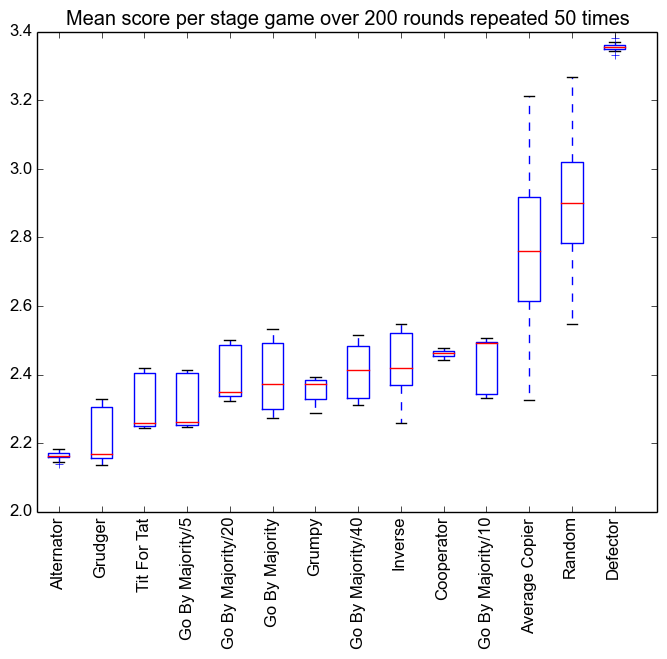
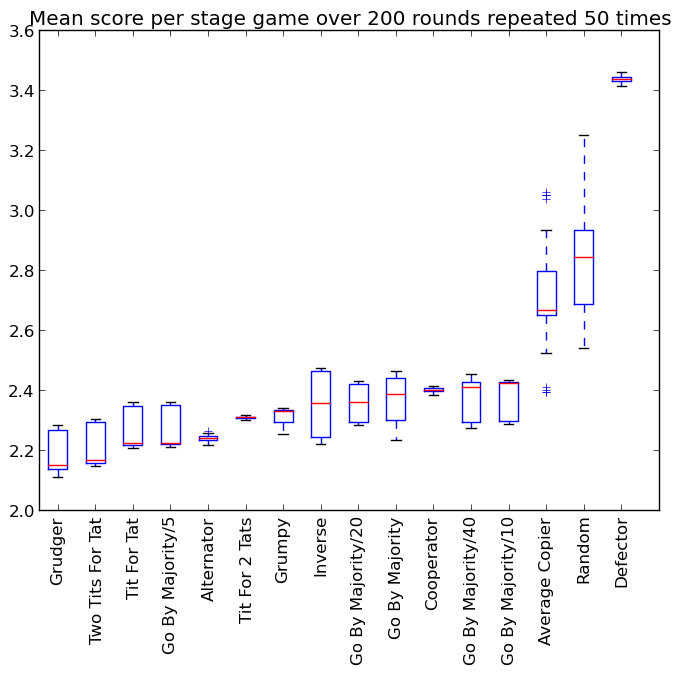
Add TwoTitsForTat and TitFor2Tats and updated results

Changed region(s): [[0.0, 0.0, 0.9895, 1.0], [0.3298, 0.1821, 0.8996, 0.6677], [0.7796, 0.2731, 0.8096, 0.3035]]

diff --git a/axelrod/tests/test_titfortat.py b/axelrod/tests/test_titfortat.py
@@ -30,3 +30,60 @@ class TestTitForTat(unittest.TestCase):
     def test_representation(self):
         P1 = axelrod.TitForTat()
         self.assertEqual(str(P1), 'Tit For Tat')
+
+class TestTitFor2Tats(unittest.TestCase):
+
+    def test_initial_strategy(self):
+        """
+        Starts by cooperating
+        """
+        P1 = axelrod.TitFor2Tats()
+        P2 = axelrod.Player()
+        self.assertEqual(P1.strategy(P2), 'C')
+
+    def test_effect_of_strategy(self):
+        """
+        Will defect only when last two turns of opponent were defections.
+        """
+        P1 = axelrod.TitFor2Tats()
+        P2 = axelrod.Player()
+        P1.history = ['C', 'C', 'C']
+        P2.history = ['C', 'D', 'D']
+        self.assertEqual(P1.strategy(P2), 'D')
+        P1.history = ['C', 'C', 'D', 'D']
+        P2.history = ['D', 'D', 'D', 'C']
+        self.assertEqual(P1.strategy(P2), 'C')
+
+    def test_representation(self):
+        P1 = axelrod.TitFor2Tats()
+        self.assertEqual(str(P1), 'Tit For 2 Tats')
+
+class TestTwoTitsForTat(unittest.TestCase):
+
+    def test_initial_strategy(self):
+        """
+        Starts by cooperating
+        """
+        P1 = axelrod.TwoTitsForTat()
+        P2 = axelrod.Player()
+        self.assertEqual(P1.strategy(P2), 'C')
+
+    def test_effect_of_strategy(self):
+        """
+        Will defect only when last two turns of opponent were defections.
+        """
+        P1 = axelrod.TwoTitsForTat()
+        P2 = axelrod.Player()
+        P1.history = ['C', 'C']
+        P2.history = ['D', 'D']
+        self.assertEqual(P1.strategy(P2), 'D')
+        P1.history = ['C', 'C', 'D']
+        P2.history = ['D', 'D', 'C']
+        self.assertEqual(P1.strategy(P2), 'D')
+        P1.history = ['C', 'C', 'D', 'D']
+        P2.history = ['D', 'D', 'C', 'C']
+        self.assertEqual(P1.strategy(P2), 'C')
+
+    def test_representation(self):
+        P1 = axelrod.TwoTitsForTat()
+        self.assertEqual(str(P1), 'Two Tits For Tat')

diff --git a/axelrod/strategies/titfortat.py b/axelrod/strategies/titfortat.py
@@ -19,3 +19,37 @@ class TitForTat(Player):
         The string method for the strategy.
         """
         return 'Tit For Tat'
+
+class TitFor2Tats(Player):
+    """
+    A player starts by cooperating and then defects only after two defects by opponent.
+    """
+    def strategy(self, opponent):
+        """
+        Being by playing 'C':
+        Will defect whenever anopponent has defected twice
+        """
+        if opponent.history[-2:] == ['D', 'D']:
+            return 'D'
+        return 'C'
+
+    def __repr__(self):
+        """The string method for the strategy."""
+        return "Tit For 2 Tats"
+
+class TwoTitsForTat(Player):
+    """
+    A player starts by cooperating and replies to each defect by two defections.
+    """
+    def strategy(self, opponent):
+        """
+        Being by playing 'C':
+        Will defect twice after each defection by opponent
+        """
+        if 'D' in opponent.history[-2:]:
+            return 'D'
+        return 'C'
+
+    def __repr__(self):
+        """The string method for the strategy."""
+        return "Two Tits For Tat"

diff --git a/axelrod/strategies/__init__.py b/axelrod/strategies/__init__.py
@@ -15,6 +15,8 @@ strategies = [
         Defector,
         Cooperator,
         TitForTat,
+        TitFor2Tats,
+        TwoTitsForTat,
         Grudger,
         GoByMajority,
         GoByMajority5,
